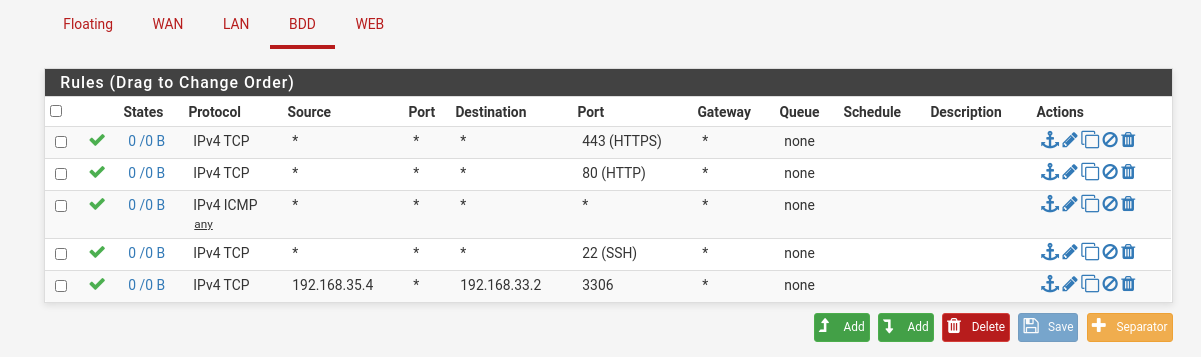
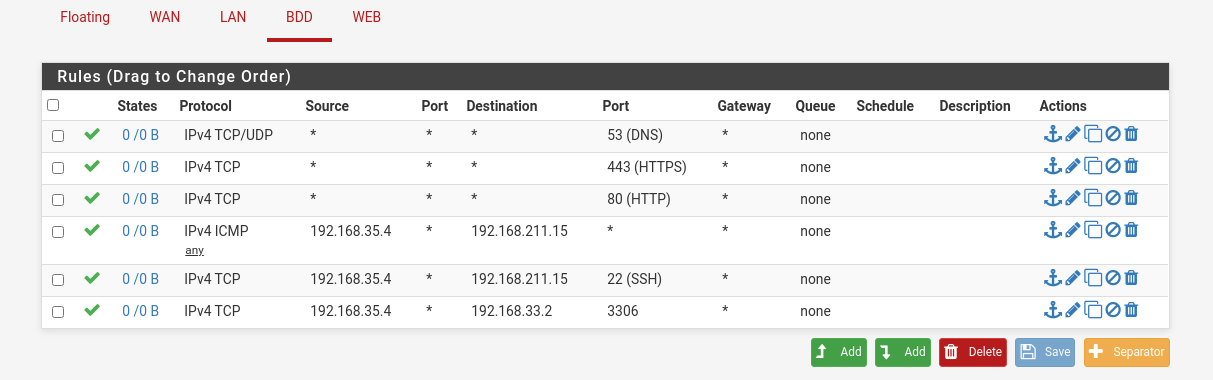
add rule pfsense-back

diff --git a/README.md b/README.md
@@ -272,11 +272,11 @@ Les règles WAN :
 
 ![](img/rule_wan.png)
 
-Les règles Web :
+Les règles sur le serveur Web :
 
 ![](img/pfsenseweb.png)
 
-Les règles BDD : 
+Les règles sur le serveur de BDD : 
 
 ![](img/pfsense_bdd.png)
 
@@ -287,6 +287,14 @@ Installation classique de pfSense puis on configure sur le panel Web les interfa
 Dans leurs IPs, on doit définir la Gateway pour les relier :
 
 ![](img/pfsense_inter2.png)
+
+Les règles sur les postes de travail :
+
+![](img/travail.png)
+
+Les règles sur les informaticiens :
+
+![](img/pf_info.png)
 
 ## Démonstration
 
